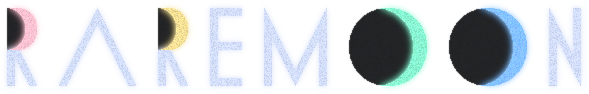
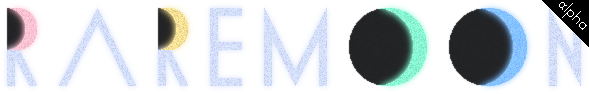
Initial Alpha commit

Changed region(s): [[0.9168, 0.0, 1.0, 0.4894]]

diff --git a/README.md b/README.md
@@ -1,7 +1,7 @@
 <div align="center">
-  <img src="https://raw.githubusercontent.com/burnsqc/RareMoon/main/src/main/resources/raremoon.png">
+  <img src="https://raw.githubusercontent.com/burnsqc/RareMoon/alpha/src/main/resources/raremoon.png">
 </div>
 
-RareMoon is a small mod for Minecraft 1.20.1 that occasionally causes a rare moon type to appear, affecting gameplay for the night.
+RareMoon is a mod for Minecraft that occasionally causes a rare moon type to appear, affecting gameplay for the night.
 
 Using Forge 1.20.1-47.2.1
